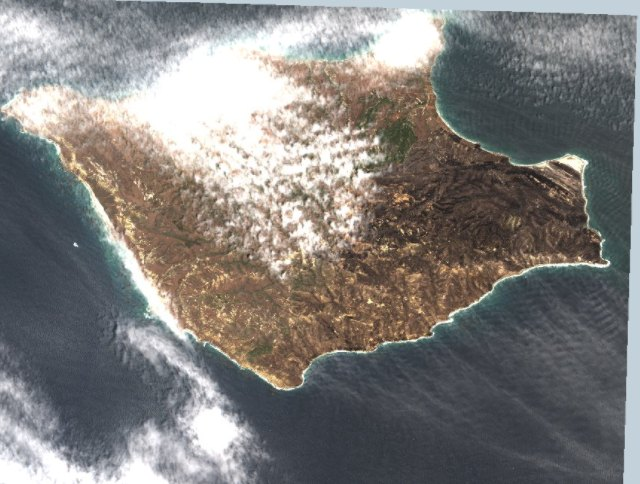
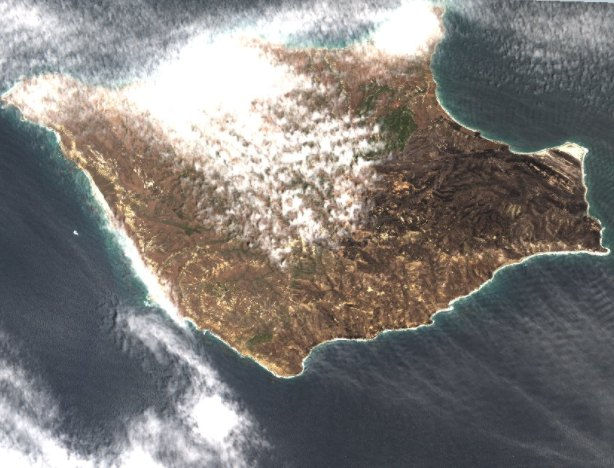
fix(climate): tighter crop on Santa Rosa frames (remove map background edge)
🤖 Generated with Claude Code

diff --git a/src/components/climate/climate.module.css b/src/components/climate/climate.module.css
@@ -649,7 +649,7 @@
   display: block;
   width: 100%;
   height: auto;
-  aspect-ratio: 640 / 484;
+  aspect-ratio: 614 / 468;
   object-fit: cover;
   border-radius: 20px;
 }
